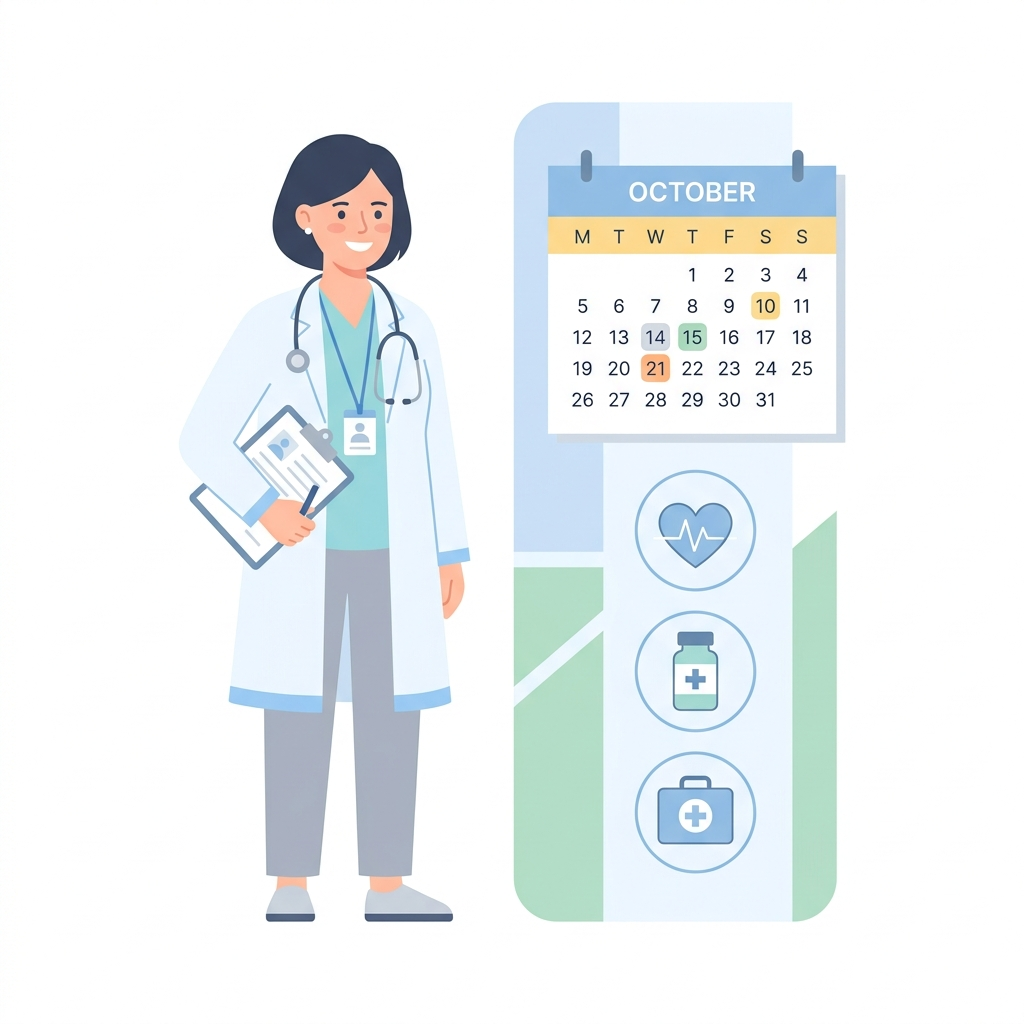
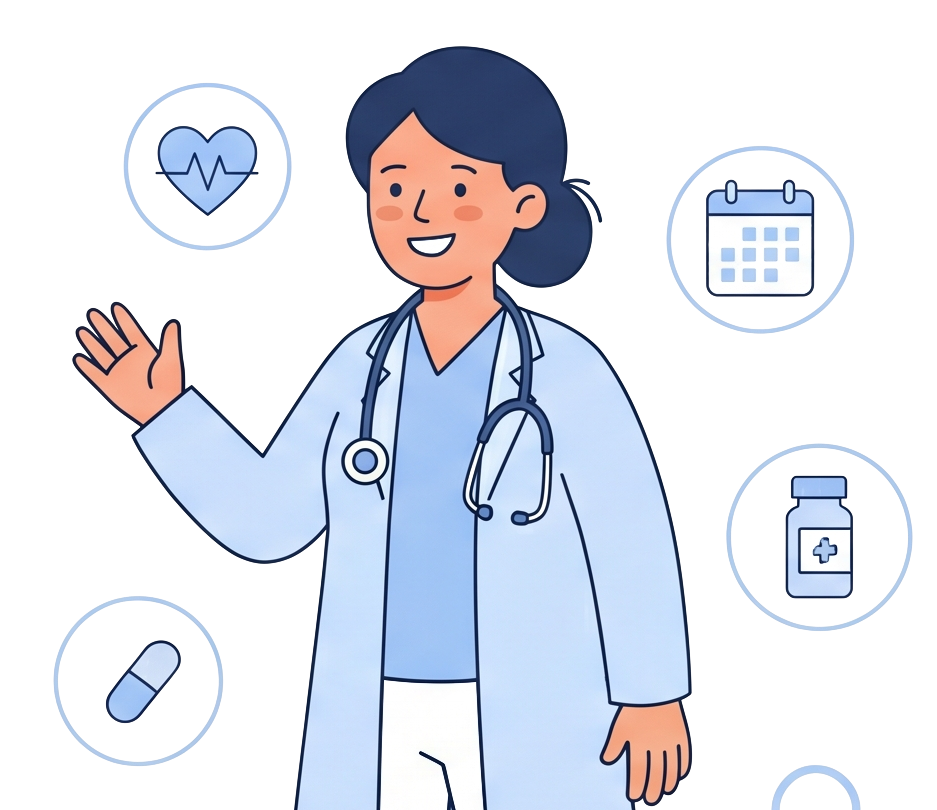
style: fix layout alignment, text cleanup, and json serialization

diff --git a/resources/views/patient/dashboard.blade.php b/resources/views/patient/dashboard.blade.php
@@ -1,7 +1,6 @@
 <x-app-layout>
     <x-slot name="header">
-        <p class="text-sm font-medium tracking-wide text-primary">Patient</p>
-        <h1 class="mt-1 text-3xl font-semibold text-heading">
+        <h1 class="text-3xl font-semibold text-heading">
             {{ $greeting }}, {{ Auth::user()->displayName() }}.
         </h1>
         <p class="mt-2 text-body max-w-xl">
@@ -17,18 +16,18 @@
                 
                 <!-- Next Appointment Card -->
                 @if($nextAppointment)
-                    <div class="rounded-2xl bg-white border border-line p-6 sm:p-8 shadow-sm flex flex-col sm:flex-row sm:items-center justify-between gap-4">
+                    <div class="rounded-2xl bg-white border border-line p-6 sm:p-8 shadow-sm flex flex-col justify-between">
                         <div>
                             <div class="text-sm font-semibold text-primary uppercase tracking-wider mb-1">Your next appointment</div>
                             <h2 class="text-xl font-semibold text-heading">Dr. {{ $nextAppointment->doctor->user->displayName() }}</h2>
-                            <p class="text-body">{{ $nextAppointment->doctor->specialization }}</p>
+                            <p class="text-body">{{ $nextAppointment->doctor->specialization->display_name ?? '' }}</p>
                             <div class="mt-3 flex items-center gap-2 text-sm text-heading bg-canvas inline-flex px-3 py-1.5 rounded-lg border border-line/50">
                                 <svg class="h-4 w-4 text-primary" fill="none" stroke="currentColor" viewBox="0 0 24 24"><path stroke-linecap="round" stroke-linejoin="round" stroke-width="2" d="M8 7V3m8 4V3m-9 8h10M5 21h14a2 2 0 002-2V7a2 2 0 00-2-2H5a2 2 0 00-2 2v12a2 2 0 002 2z"/></svg>
                                 <span>{{ \Carbon\Carbon::parse($nextAppointment->appointment_dt)->format('D M j, g:i A') }}</span>
                             </div>
                         </div>
-                        <div class="shrink-0">
-                            <a href="{{ route('patient.appointments.index') }}" class="inline-flex items-center justify-center rounded-xl bg-white border border-line px-4 py-2 text-sm font-medium text-heading shadow-sm transition-all hover:bg-canvas active:scale-95">
+                        <div class="mt-6">
+                            <a href="{{ route('patient.appointments.index') }}" class="inline-flex items-center justify-center rounded-xl bg-white border border-line px-6 py-3 text-base font-medium text-heading shadow-sm transition-all hover:bg-canvas active:scale-95">
                                 View details
                             </a>
                         </div>
@@ -36,7 +35,7 @@
                 @endif
 
                 <!-- Book an Appointment Card (Primary CTA) -->
-                <div class="rounded-2xl bg-white border border-line p-8 shadow-sm relative overflow-hidden">
+                <div class="rounded-2xl bg-white border border-line p-8 shadow-sm relative overflow-hidden flex-1 flex flex-col justify-center">
                     <div class="relative z-10 max-w-lg">
                         <h2 class="text-xl font-semibold text-heading">Book a new appointment</h2>
                         <p class="mt-2 text-body">
@@ -57,14 +56,14 @@
             </div>
 
             <!-- Right Column: Sidebar & Illustration -->
-            <div class="lg:col-span-4 flex flex-col gap-6">
+            <div class="lg:col-span-4 flex flex-col justify-end">
                 <!-- Illustration -->
-                <div class="hidden lg:flex justify-center items-center p-4">
-                    <img src="{{ asset('images/doctor.png') }}" alt="Medical Illustration" class="w-full max-w-[240px] h-auto drop-shadow-md">
+                <div class="hidden lg:flex justify-center items-end -mb-1 relative z-0">
+                    <img src="{{ asset('images/doctor.png') }}" alt="Medical Illustration" class="w-full max-w-[260px] h-auto drop-shadow-md">
                 </div>
 
                 <!-- Secondary Actions -->
-                <div class="flex flex-col gap-3">
+                <div class="flex flex-col gap-6 relative z-10">
                     <a href="{{ route('patient.appointments.index') }}" class="group flex items-center justify-between rounded-xl px-4 py-3 text-body bg-white border border-line shadow-sm transition-all duration-300 hover:-translate-y-0.5 hover:shadow hover:border-primary/30">
                         <div class="flex items-start gap-3">
                             <div class="mt-0.5 text-primary">